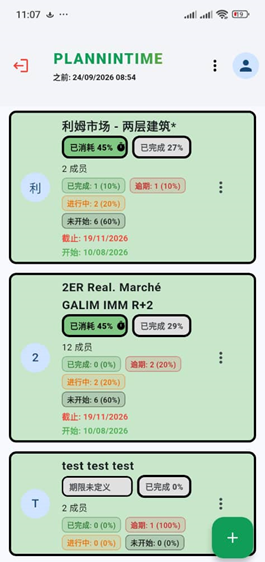
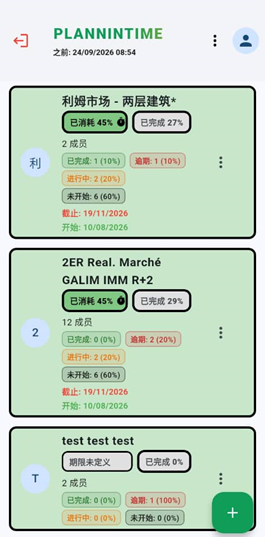
Plannintime v1 - deploy Firebase OK + update 8 langues FR EN ES DE PT ZH HI AR

diff --git a/de/index.html b/de/index.html
@@ -1,34 +1,111 @@
 <!DOCTYPE html>
 <html lang="de">
 <head>
-<meta charset="UTF-8"><meta name="viewport" content="width=device-width,initial-scale=1">
-<title>PlannInTime - Die Planungssoftware, die Fristen einhält</title>
-<meta name="description" content="Weisen Sie Aufgaben zu, verfolgen Sie den Fortschritt und erhalten Sie automatische Benachrichtigungen vor jeder Frist.">
+<meta charset="UTF-8">
+<meta name="viewport" content="width=device-width,initial-scale=1">
+<title>PlannInTime - Der Zeitplan, der Termine einhält</title>
+<meta name="description" content="Weisen Sie Aufgaben zu, verfolgen Sie den Fortschritt und bewerten Sie diese mit automatischen Benachrichtigungen vor jedem Fälligkeitsdatum.">
 <link rel="icon" type="image/png" href="/favicon.png"/>
 <link rel="canonical" href="https://plannintime.com/de/"/>
-<link rel="alternate" hreflang="en" href="https://plannintime.com/"/><link rel="alternate" hreflang="fr" href="https://plannintime.com/fr/"/><link rel="alternate" hreflang="es" href="https://plannintime.com/es/"/><link rel="alternate" hreflang="de" href="https://plannintime.com/de/"/><link rel="alternate" hreflang="pt" href="https://plannintime.com/pt/"/><link rel="alternate" hreflang="zh" href="https://plannintime.com/zh/"/><link rel="alternate" hreflang="hi" href="https://plannintime.com/hi/"/><link rel="alternate" hreflang="ar" href="https://plannintime.com/ar/"/><link rel="alternate" hreflang="x-default" href="https://plannintime.com/"/>
+<link rel="alternate" hreflang="en" href="https://plannintime.com/"/>
+<link rel="alternate" hreflang="fr" href="https://plannintime.com/fr/"/>
+<link rel="alternate" hreflang="es" href="https://plannintime.com/es/"/>
+<link rel="alternate" hreflang="de" href="https://plannintime.com/de/"/>
+<link rel="alternate" hreflang="pt" href="https://plannintime.com/pt/"/>
+<link rel="alternate" hreflang="zh" href="https://plannintime.com/zh/"/>
+<link rel="alternate" hreflang="hi" href="https://plannintime.com/hi/"/>
+<link rel="alternate" hreflang="ar" href="https://plannintime.com/ar/"/>
+<link rel="alternate" hreflang="x-default" href="https://plannintime.com/"/>
+<meta property="og:image" content="https://plannintime.com/images/hero-de.png"/>
 <style>
-*{box-sizing:border-box}body{font-family:Inter,system-ui;margin:0;color:#0f172a;background:#fff;line-height:1.6}
+*{box-sizing:border-box}body{font-family:Inter,system-ui,-apple-system,sans-serif;margin:0;color:#0f172a;background:#fff;line-height:1.6}
 header{display:flex;justify-content:space-between;align-items:center;padding:16px 5%;border-bottom:1px solid #e2e8f0;background:rgba(255,255,255,.9);backdrop-filter:blur(10px);position:sticky;top:0;z-index:10}
 nav a{margin:0 12px;text-decoration:none;color:#334155;font-weight:500}
-.btn{background:linear-gradient(135deg,#2563eb,#7c3aed);color:#fff!important;padding:12px 22px;border-radius:10px;text-decoration:none;font-weight:600;display:inline-block}
+nav a:hover{color:#2563eb}
+.btn{background:linear-gradient(135deg,#2563eb,#7c3aed);color:#fff!important;padding:12px 22px;border-radius:10px;text-decoration:none;font-weight:600;display:inline-block;box-shadow:0 4px 15px rgba(37,99,235,.3);transition:.2s}
+.btn:hover{transform:translateY(-2px);box-shadow:0 8px 25px rgba(37,99,235,.4)}
 .hero{padding:80px 5%;display:grid;grid-template-columns:1.1fr .9fr;gap:40px;align-items:center;background:linear-gradient(180deg,#eff6ff 0%,#f5f3ff 50%,#fff 100%)}
 .hero h1{font-size:52px;line-height:1.1;margin:0 0 20px;background:linear-gradient(135deg,#1e293b,#4c1d95);-webkit-background-clip:text;-webkit-text-fill-color:transparent}
-@keyframes shine{to{background-position:200% center}}
+.hero p.sub{font-size:19px;color:#475569;margin:0 0 30px}
+.badge{display:inline-block;background:#dbeafe;color:#1d4ed8;padding:6px 14px;border-radius:20px;font-size:13px;font-weight:600;margin-bottom:16px}
+.trust{margin-top:16px;color:#64748b;font-size:14px}
+.hero img{width:100%;border-radius:20px;border:1px solid #e2e8f0;box-shadow:0 20px 50px rgba(0,0,0,.1)}
 .features{padding:60px 5%;display:grid;grid-template-columns:repeat(3,1fr);gap:24px;max-width:1200px;margin:0 auto}
-.card{border:1px solid #e2e8f0;padding:28px;border-radius:18px;background:#fff}
-.img-section{padding:80px 5%;background:linear-gradient(135deg,#0f172a,#1e1b4b);color:#fff}
-.img-grid{display:grid;grid-template-columns:1fr 1fr;gap:28px;max-width:1100px;margin:40px auto 0}
-.img-card{background:#fff;color:#0f172a;border-radius:20px;padding:14px}
+.card{border:1px solid #e2e8f0;padding:28px;border-radius:18px;background:#fff;transition:.2s}
+.card:hover{transform:translateY(-4px);box-shadow:0 12px 30px rgba(0,0,0,.08);border-color:#c7d2fe}
+.card h3{margin:0 0 10px;font-size:20px}
+.card p{margin:0;color:#64748b}
+.card.icon{font-size:32px;margin-bottom:12px;display:block}
+.img-section{padding:80px 5%;background:linear-gradient(135deg,#0f172a 0%,#1e1b4b 100%);color:#fff}
+.img-section h2{text-align:center;font-size:38px;margin:0}
+.img-section p.lead{text-align:center;color:#cbd5e1;max-width:620px;margin:14px auto 0}
+.img-grid{display:grid;grid-template-columns:1fr 1fr;gap:28px;margin-top:40px;max-width:1100px;margin-left:auto;margin-right:auto}
+.img-card{background:#fff;color:#0f172a;border-radius:20px;padding:14px;box-shadow:0 20px 40px rgba(0,0,0,.2)}
+.img-card img{width:100%;border-radius:14px;border:1px solid #e2e8f0}
+.img-card h4{margin:14px 10px 6px;font-size:18px}
+.img-card p{margin:0 10px 14px;color:#64748b;font-size:14px}
 .cta{padding:80px 5%;text-align:center;background:linear-gradient(135deg,#2563eb,#7c3aed);color:#fff}
-@media(max-width:800px){.hero{grid-template-columns:1fr}.features{grid-template-columns:1fr}.img-grid{grid-template-columns:1fr}}
+.cta h2{font-size:36px;margin:0 0 16px}
+.cta.btn{background:#fff;color:#2563eb!important;box-shadow:none;margin-top:20px}
+footer{padding:30px 5%;text-align:center;color:#94a3b8;font-size:14px;border-top:1px solid #f1f5f9}
+@media(max-width:800px){.hero{grid-template-columns:1fr;padding:40px 5%}.hero h1{font-size:36px}.features{grid-template-columns:1fr}.img-grid{grid-template-columns:1fr}}
+@keyframes shine{to{background-position:200% center}}
 </style>
 </head>
 <body>
-<header><div style="display:flex;align-items:center;gap:10px"><img src="/favicon.png" style="width:36px;height:36px;border-radius:8px"/><div style="font-weight:900;font-size:22px;letter-spacing:1.5px;background:linear-gradient(90deg,#0F9D58,#FFC107,#0F9D58);background-size:200% auto;-webkit-background-clip:text;background-clip:text;-webkit-text-fill-color:transparent;animation:shine 3s linear infinite">PLANNINTIME</div></div><nav><a href="/de/planning.html">Planung</a><a href="/de/pricing.html">Preise</a><a href="/de/contact.html">Kontakt</a><a class="btn" href="https://app.plannintime.com" target="_blank" rel="noopener">Login</a></nav></header>
-<section class="hero"><div><span style="background:#dbeafe;color:#1d4ed8;padding:6px 14px;border-radius:20px;font-size:13px;font-weight:600">✨ Neu: A3 Querformat PDF Export</span><h1>Die Planungssoftware, die Fristen einhält.</h1><p style="color:#475569;font-size:19px">Weisen Sie Aufgaben in 2 Klicks zu, verfolgen Sie den Fortschritt in Echtzeit und erhalten Sie automatische Benachrichtigungen vor jeder Frist.</p><a class="btn" href="https://app.plannintime.com" target="_blank" rel="noopener">Kostenlos starten →</a><p style="color:#64748b;font-size:14px">✓ Keine Kreditkarte · ✓ In 2 Minuten · ✓ Support auf Deutsch</p></div><div><img src="/images/hero-de.png" style="width:100%;border-radius:20px" alt="PlannInTime"></div></section>
-<section class="features"><div class="card"><h3>📋 Einfache Zuweisung</h3><p>Aufgabe in 2 Klicks zuweisen, Frist und Verantwortlichen festlegen.</p></div><div class="card"><h3>🔔 Auto-Benachrichtigungen</h3><p>Erinnerungen bei T-3, T-1, S-2. Nach Projekt konfigurierbar.</p></div><div class="card"><h3>📊 Klare Bewertung</h3><p>Wer ist voraus, im Verzug? Performance Dashboard.</p></div></section>
-<section class="img-section"><h2 style="text-align:center">Visualisieren, exportieren, teilen</h2><div class="img-grid"><div class="img-card"><img src="/images/evolution-taches-de.png"><h4>Echtzeit Aufgabenentwicklung</h4></div><div class="img-card"><img src="/images/planning-pdf-de.png"><h4>Pro PDF Export (A4 / A3 Quer)</h4></div></div></section>
-<section class="cta"><h2>Bereit, nie wieder eine Frist zu verpassen?</h2><a class="btn" style="background:#fff;color:#2563eb!important" href="https://app.plannintime.com" target="_blank" rel="noopener">Kostenlos testen →</a></section>
+<header>
+<div style="display:flex;align-items:center;gap:10px">
+  <img src="/favicon.png" alt="PlannInTime" style="width:36px;height:36px;border-radius:8px"/>
+  <div style="font-weight:900;font-size:22px;letter-spacing:1.5px;background:linear-gradient(90deg,#0F9D58,#FFC107,#0F9D58);background-size:200% auto;-webkit-background-clip:text;background-clip:text;-webkit-text-fill-color:transparent;animation:shine 3s linear infinite">PLANNINTIME</div>
+</div>
+<nav>
+<a href="/de/planning.html">Planung</a>
+<a href="/de/tarifs.html">Preise</a>
+<a href="/de/contact.html">Kontakt</a>
+<a class="btn" href="https://app.plannintime.com" target="_blank" rel="noopener" style="padding:8px 16px">Anmelden</a>
+</nav>
+</header>
+<section class="hero">
+<div>
+<span class="badge">✨ Neu: PDF-Export A3 Querformat</span>
+<h1>Der Zeitplan, der Termine einhält.</h1>
+<p class="sub">Weisen Sie Ihre Aufgaben mit 2 Klicks zu, verfolgen Sie den Fortschritt in Echtzeit und erhalten Sie automatische Benachrichtigungen vor jeder Fälligkeit.</p>
+<a class="btn" href="https://app.plannintime.com" target="_blank" rel="noopener">Kostenlos starten →</a>
+<p class="trust">✓ Ohne Kreditkarte · ✓ In 2 Minuten · ✓ Support auf Deutsch</p>
+</div>
+<div><img src="/images/hero-de.png" alt="PlannInTime Planung"></div>
+</section>
+
+<!-- BLOC GUIDE - CADRE VERT AU MILIEU -->
+<section style="padding:30px 5%;background:#f0fdf4">
+<div style="max-width:900px;margin:0 auto;background:linear-gradient(135deg,#0F9D58,#0a7a44);border-radius:20px;padding:28px 28px;display:flex;flex-wrap:wrap;align-items:center;justify-content:space-between;gap:16px;box-shadow:0 12px 30px rgba(15,157,88,.35);border:1px solid rgba(255,255,255,.2)">
+<div style="color:#fff;flex:1;min-width:240px">
+<h3 style="margin:0 0 6px;font-size:22px;color:#fff">📘 Kostenloser Benutzerleitfaden</h3>
+<p style="margin:0;color:#d1fae5;font-size:15px">Laden Sie den vollständigen Leitfaden als PDF herunter (1 Min)</p>
+</div>
+<a href="//guides/guide-de.pdf" download style="background:#fff;color:#0F9D58;padding:13px 24px;border-radius:10px;text-decoration:none;font-weight:800;display:inline-block;white-space:nowrap;box-shadow:0 4px 12px rgba(0,0,0,.15)">PDF-Leitfaden herunterladen →</a>
+</div>
+</section>
+<!-- FIN BLOC GUIDE -->
+
+<section class="features">
+<div class="card"><span class="icon">📋</span><h3>Einfache Zuweisung</h3><p>Weisen Sie eine Aufgabe mit 2 Klicks zu, legen Sie Fälligkeitsdatum und Verantwortlichen fest.</p></div>
+<div class="card"><span class="icon">🔔</span><h3>Automatische Benachrichtigungen</h3><p>Erinnerungen bei T-3, T-1, H-2. Konfigurierbar pro Projekt und Rolle.</p></div>
+<div class="card"><span class="icon">📊</span><h3>Klare Bewertung</h3><p>Wer ist im Voraus, wer im Verzug? Leistungs-Dashboard.</p></div>
+</section>
+<section class="img-section">
+<h2>Visualisieren, exportieren, teilen</h2>
+<p class="lead">Von der Echtzeit-Verfolgung bis zum professionellen Export für Ihre Baubesprechungen.</p>
+<div class="img-grid">
+<div class="img-card"><img src="/images/evolution-taches-de.png" alt="Aufgabenentwicklung"><h4>Aufgabenentwicklung in Echtzeit</h4><p>Verfolgung nach Fälligkeit oder Fortschritt der Unteraufgaben. Jedes Mitglied sieht seinen Fortschritt.</p></div>
+<div class="img-card"><img src="/images/planning-pdf-de.png" alt="PDF Planung Export"><h4>Pro PDF-Export (A4 / A3 Querformat)</h4><p>Erstellung des Wochen- oder Gesamtplans mit Bezeichnungen und Verantwortlichen.</p></div>
+</div>
+</section>
+<section class="cta">
+<h2>Bereit, nie wieder eine Frist zu verpassen?</h2>
+<p>Schließen Sie sich den Teams an, die pünktlich liefern mit PlannInTime.</p>
+<a class="btn" href="https://app.plannintime.com" target="_blank" rel="noopener">Kostenlos testen →</a>
+</section>
+<footer>© 2026 PlannInTime - plannintime.com</footer>
 </body>
 </html>

diff --git a/hi/index.html b/hi/index.html
@@ -12,6 +12,17 @@
 <body>
 <header><div style="display:flex;align-items:center;gap:10px"><img src="/favicon.png" style="width:36px;height:36px;border-radius:8px"/><div style="font-weight:900;font-size:22px;letter-spacing:1.5px;background:linear-gradient(90deg,#0F9D58,#FFC107,#0F9D58);background-size:200% auto;-webkit-background-clip:text;background-clip:text;-webkit-text-fill-color:transparent;animation:shine 3s linear infinite">PLANNINTIME</div></div><nav><a href="/hi/planning.html">प्लानिंग</a><a href="/hi/pricing.html">मूल्य</a><a href="/hi/contact.html">संपर्क</a><a class="btn" href="https://app.plannintime.com" target="_blank" rel="noopener">लॉगिन</a></nav></header>
 <section class="hero"><div><span style="background:#dbeafe;color:#1d4ed8;padding:6px 14px;border-radius:20px;font-size:13px;font-weight:600">✨ नया: A3 लैंडस्केप PDF एक्सपोर्ट</span><h1>वह प्लानिंग सॉफ्टवेयर जो समय पर काम करवाता है।</h1><p style="color:#475569;font-size:19px">2 क्लिक में टास्क असाइन करें, रियल-टाइम प्रगति देखें और हर डेडलाइन से पहले ऑटोमैटिक रिमाइंडर पाएं।</p><a class="btn" href="https://app.plannintime.com" target="_blank" rel="noopener">फ्री में शुरू करें →</a><p style="color:#64748b;font-size:14px">✓ कोई क्रेडिट कार्ड नहीं · ✓ 2 मिनट में · ✓ हिंदी सपोर्ट</p></div><div><img src="/images/hero-hi.png" style="width:100%;border-radius:20px" alt="PlannInTime"></div></section>
+
+<section style="padding:30px 5%;background:#f0fdf4">
+<div style="max-width:900px;margin:0 auto;background:linear-gradient(135deg,#0F9D58,#0a7a44);border-radius:20px;padding:28px 28px;display:flex;flex-wrap:wrap;align-items:center;justify-content:space-between;gap:16px;box-shadow:0 12px 30px rgba(15,157,88,.35);border:1px solid rgba(255,255,255,.2)">
+<div style="color:#fff;flex:1;min-width:240px">
+<h3 style="margin:0 0 6px;font-size:22px;color:#fff">📘 निःशुल्क उपयोगकर्ता गाइड</h3>
+<p style="margin:0;color:#d1fae5;font-size:15px">पूरा गाइड PDF में डाउनलोड करें (1 मिनट)</p>
+</div>
+<a href="/guides/guide-hi.pdf" download style="background:#fff;color:#0F9D58;padding:13px 24px;border-radius:10px;text-decoration:none;font-weight:800;display:inline-block;white-space:nowrap;box-shadow:0 4px 12px rgba(0,0,0,.15)">PDF गाइड डाउनलोड करें →</a>
+</div>
+</section>
+
 <section class="features"><div class="card"><h3>📋 आसान असाइनमेंट</h3><p>2 क्लिक में टास्क असाइन करें, डेडलाइन और जिम्मेदार व्यक्ति सेट करें।</p></div><div class="card"><h3>🔔 ऑटो नोटिफिकेशन</h3><p>D-3, D-1, H-2 पर रिमाइंडर। प्रोजेक्ट और रोल के हिसाब से कॉन्फ़िगर करें।</p></div><div class="card"><h3>📊 स्पष्ट मूल्यांकन</h3><p>कौन आगे है, कौन पीछे? परफॉरमेंस डैशबोर्ड।</p></div></section>
 <section class="img-section"><h2 style="text-align:center;font-size:38px;margin:0">देखें, एक्सपोर्ट करें, शेयर करें</h2><div class="img-grid"><div class="img-card"><img src="/images/evolution-taches-hi.png"><h4>रियल-टाइम टास्क प्रगति</h4></div><div class="img-card"><img src="/images/planning-pdf-hi.png"><h4>प्रो PDF एक्सपोर्ट (A4 / A3 लैंडस्केप)</h4></div></div></section>
 <section class="cta"><h2>क्या आप कभी डेडलाइन मिस नहीं करना चाहते?</h2><a class="btn" style="background:#fff;color:#2563eb!important" href="https://app.plannintime.com" target="_blank" rel="noopener">फ्री ट्रायल →</a></section>

diff --git a/index.html b/index.html
@@ -89,37 +89,15 @@ footer{padding:30px 5%;text-align:center;color:#94a3b8;font-size:14px;border-top
 <div><img src="/images/hero-en.png" alt="PlannInTime Planning software"></div>
 </section>
 
-<!-- BLOC GUIDE - CADRE VERT AU MILIEU -->
 <section style="padding:30px 5%;background:#f0fdf4">
 <div style="max-width:900px;margin:0 auto;background:linear-gradient(135deg,#0F9D58,#0a7a44);border-radius:20px;padding:28px 28px;display:flex;flex-wrap:wrap;align-items:center;justify-content:space-between;gap:16px;box-shadow:0 12px 30px rgba(15,157,88,.35);border:1px solid rgba(255,255,255,.2)">
 <div style="color:#fff;flex:1;min-width:240px">
 <h3 style="margin:0 0 6px;font-size:22px;color:#fff">📘 Free User Guide</h3>
-<p id="guide-text" style="margin:0;color:#d1fae5;font-size:15px">Download the complete guide in PDF (2 min read)</p>
+<p style="margin:0;color:#d1fae5;font-size:15px">Download the complete guide in PDF (1 min)</p>
 </div>
-<a id="guide-btn" href="/guides/guide-en.pdf" download style="background:#fff;color:#0F9D58;padding:13px 24px;border-radius:10px;text-decoration:none;font-weight:800;display:inline-block;white-space:nowrap;box-shadow:0 4px 12px rgba(0,0,0,.15)">Download PDF guide →</a>
+<a href="/guides/guide-en.pdf" download style="background:#fff;color:#0F9D58;padding:13px 24px;border-radius:10px;text-decoration:none;font-weight:800;display:inline-block;white-space:nowrap;box-shadow:0 4px 12px rgba(0,0,0,.15)">Download PDF guide →</a>
 </div>
 </section>
-<script>
-(function(){
-  const guides = {
-    fr: {file:'/guides/guide-fr.pdf', text:'Téléchargez le guide complet en PDF (2 min)', btn:'Télécharger le guide PDF →'},
-    en: {file:'/guides/guide-en.pdf', text:'Download the complete guide in PDF (2 min)', btn:'Download PDF guide →'},
-    es: {file:'/guides/guide-es.pdf', text:'Descarga la guía completa en PDF (2 min)', btn:'Descargar guía PDF →'},
-    de: {file:'/guides/guide-de.pdf', text:'Laden Sie den vollständigen Leitfaden als PDF herunter (2 Min)', btn:'PDF-Leitfaden herunterladen →'},
-    pt: {file:'/guides/guide-pt.pdf', text:'Baixe o guia completo em PDF (2 min)', btn:'Baixar guia PDF →'},
-    zh: {file:'/guides/guide-zh.pdf', text:'下载完整 PDF 指南（2 分钟）', btn:'下载 PDF 指南 →'},
-    hi: {file:'/guides/guide-hi.pdf', text:'पूरा गाइड PDF में डाउनलोड करें (2 मिनट)', btn:'PDF गाइड डाउनलोड करें →'},
-    ar: {file:'/guides/guide-ar.pdf', text:'حمّل الدليل الكامل PDF (دقيقتان)', btn:'تحميل دليل PDF →'}
-  };
-  const lang = (navigator.language||'en').toLowerCase().split('-')[0];
-  const g = guides[lang] || guides.en;
-  const btn = document.getElementById('guide-btn');
-  const txt = document.getElementById('guide-text');
-  if(btn){ btn.href = g.file; btn.textContent = g.btn; }
-  if(txt){ txt.textContent = g.text; }
-})();
-</script>
-<!-- FIN BLOC GUIDE -->
 
 <section class="features">
 <div class="card"><span class="icon">📋</span><h3>Easy assignment</h3><p>Assign a task in 2 clicks, set the deadline and owner.</p></div>

diff --git a/ar/index.html b/ar/index.html
@@ -67,6 +67,17 @@ footer{padding:30px 5%;text-align:center;color:#94a3b8;font-size:14px;border-top
 </div>
 <div><img src="/images/hero-ar.png" alt="جدولة PlannInTime"></div>
 </section>
+
+<section style="padding:30px 5%;background:#f0fdf4" dir="rtl">
+<div style="max-width:900px;margin:0 auto;background:linear-gradient(135deg,#0F9D58,#0a7a44);border-radius:20px;padding:28px 28px;display:flex;flex-wrap:wrap;align-items:center;justify-content:space-between;gap:16px;box-shadow:0 12px 30px rgba(15,157,88,.35);border:1px solid rgba(255,255,255,.2)">
+<div style="color:#fff;flex:1;min-width:240px">
+<h3 style="margin:0 0 6px;font-size:22px;color:#fff">📘 دليل المستخدم المجاني</h3>
+<p style="margin:0;color:#d1fae5;font-size:15px">حمّل الدليل الكامل PDF (دقيقتان)</p>
+</div>
+<a href="/guides/guide-ar.pdf" download style="background:#fff;color:#0F9D58;padding:13px 24px;border-radius:10px;text-decoration:none;font-weight:800;display:inline-block;white-space:nowrap;box-shadow:0 4px 12px rgba(0,0,0,.15)">← تحميل دليل PDF</a>
+</div>
+</section>
+
 <section class="features">
 <div class="card"><span class="icon">📋</span><h3>تعيين بسيط</h3><p>عيّن مهمة بنقرتين، حدد الموعد النهائي والمسؤول.</p></div>
 <div class="card"><span class="icon">🔔</span><h3>إشعارات تلقائية</h3><p>تذكير في D-3، D-1، H-2. قابلة للتخصيص حسب المشروع والدور.</p></div>

diff --git a/fr/index.html b/fr/index.html
@@ -75,6 +75,19 @@ footer{padding:30px 5%;text-align:center;color:#94a3b8;font-size:14px;border-top
 </div>
 <div><img src="/images/hero-fr.png" alt="Planning Plannintime"></div>
 </section>
+
+<!-- BLOC GUIDE - CADRE VERT AU MILIEU -->
+<section style="padding:30px 5%;background:#f0fdf4">
+<div style="max-width:900px;margin:0 auto;background:linear-gradient(135deg,#0F9D58,#0a7a44);border-radius:20px;padding:28px 28px;display:flex;flex-wrap:wrap;align-items:center;justify-content:space-between;gap:16px;box-shadow:0 12px 30px rgba(15,157,88,.35);border:1px solid rgba(255,255,255,.2)">
+<div style="color:#fff;flex:1;min-width:240px">
+<h3 style="margin:0 0 6px;font-size:22px;color:#fff">📘 Guide d'utilisation gratuit</h3>
+<p style="margin:0;color:#d1fae5;font-size:15px">Téléchargez le guide complet en PDF (1 min)</p>
+</div>
+<a href="/guides/guide-fr.pdf" download style="background:#fff;color:#0F9D58;padding:13px 24px;border-radius:10px;text-decoration:none;font-weight:800;display:inline-block;white-space:nowrap;box-shadow:0 4px 12px rgba(0,0,0,.15)">Télécharger le guide PDF →</a>
+</div>
+</section>
+<!-- FIN BLOC GUIDE -->
+
 <section class="features">
 <div class="card"><span class="icon">📋</span><h3>Assignation simple</h3><p>Assignez une tâche en 2 clics, définissez l'échéance et le responsable.</p></div>
 <div class="card"><span class="icon">🔔</span><h3>Notifications auto</h3><p>Relances à J-3, J-1, H-2. Paramétrable par projet et par rôle.</p></div>

diff --git a/es/index.html b/es/index.html
@@ -73,6 +73,17 @@ footer{padding:30px 5%;text-align:center;color:#94a3b8;font-size:14px;border-top
 </div>
 <div><img src="/images/hero-es.png" alt="PlannInTime software de planificación"></div>
 </section>
+
+<section style="padding:30px 5%;background:#f0fdf4">
+<div style="max-width:900px;margin:0 auto;background:linear-gradient(135deg,#0F9D58,#0a7a44);border-radius:20px;padding:28px 28px;display:flex;flex-wrap:wrap;align-items:center;justify-content:space-between;gap:16px;box-shadow:0 12px 30px rgba(15,157,88,.35);border:1px solid rgba(255,255,255,.2)">
+<div style="color:#fff;flex:1;min-width:240px">
+<h3 style="margin:0 0 6px;font-size:22px;color:#fff">📘 Guía de usuario gratuita</h3>
+<p style="margin:0;color:#d1fae5;font-size:15px">Descarga la guía completa en PDF (1 min)</p>
+</div>
+<a href="/guides/guide-es.pdf" download style="background:#fff;color:#0F9D58;padding:13px 24px;border-radius:10px;text-decoration:none;font-weight:800;display:inline-block;white-space:nowrap;box-shadow:0 4px 12px rgba(0,0,0,.15)">Descargar guía PDF →</a>
+</div>
+</section>
+
 <section class="features">
 <div class="card"><span class="icon">📋</span><h3>Asignación fácil</h3><p>Asigna una tarea en 2 clics, define el plazo y el responsable.</p></div>
 <div class="card"><span class="icon">🔔</span><h3>Notificaciones auto</h3><p>Recordatorios a D-3, D-1, H-2. Configurable por proyecto y rol.</p></div>

diff --git a/pt/index.html b/pt/index.html
@@ -75,6 +75,17 @@ footer{padding:30px 5%;text-align:center;color:#94a3b8;font-size:14px;border-top
 </div>
 <div><img src="/images/hero-pt.png" alt="Planejamento PlannInTime"></div>
 </section>
+
+<section style="padding:30px 5%;background:#f0fdf4">
+<div style="max-width:900px;margin:0 auto;background:linear-gradient(135deg,#0F9D58,#0a7a44);border-radius:20px;padding:28px 28px;display:flex;flex-wrap:wrap;align-items:center;justify-content:space-between;gap:16px;box-shadow:0 12px 30px rgba(15,157,88,.35);border:1px solid rgba(255,255,255,.2)">
+<div style="color:#fff;flex:1;min-width:240px">
+<h3 style="margin:0 0 6px;font-size:22px;color:#fff">📘 Guia gratuito do usuário</h3>
+<p style="margin:0;color:#d1fae5;font-size:15px">Baixe o guia completo em PDF (1 min)</p>
+</div>
+<a href="/guides/guide-pt.pdf" download style="background:#fff;color:#0F9D58;padding:13px 24px;border-radius:10px;text-decoration:none;font-weight:800;display:inline-block;white-space:nowrap;box-shadow:0 4px 12px rgba(0,0,0,.15)">Baixar guia PDF →</a>
+</div>
+</section>
+
 <section class="features">
 <div class="card"><span class="icon">📋</span><h3>Atribuição simples</h3><p>Atribua uma tarefa em 2 cliques, defina o prazo e o responsável.</p></div>
 <div class="card"><span class="icon">🔔</span><h3>Notificações automáticas</h3><p>Lembretes em D-3, D-1, H-2. Configurável por projeto e função.</p></div>

diff --git a/zh/index.html b/zh/index.html
@@ -67,6 +67,17 @@ footer{padding:30px 5%;text-align:center;color:#94a3b8;font-size:14px;border-top
 </div>
 <div><img src="/images/hero-zh.png" alt="PlannInTime 规划"></div>
 </section>
+
+<section style="padding:30px 5%;background:#f0fdf4">
+<div style="max-width:900px;margin:0 auto;background:linear-gradient(135deg,#0F9D58,#0a7a44);border-radius:20px;padding:28px 28px;display:flex;flex-wrap:wrap;align-items:center;justify-content:space-between;gap:16px;box-shadow:0 12px 30px rgba(15,157,88,.35);border:1px solid rgba(255,255,255,.2)">
+<div style="color:#fff;flex:1;min-width:240px">
+<h3 style="margin:0 0 6px;font-size:22px;color:#fff">📘 免费用户指南</h3>
+<p style="margin:0;color:#d1fae5;font-size:15px">下载完整 PDF 指南（1 分钟）</p>
+</div>
+<a href="/guides/guide-zh.pdf" download style="background:#fff;color:#0F9D58;padding:13px 24px;border-radius:10px;text-decoration:none;font-weight:800;display:inline-block;white-space:nowrap;box-shadow:0 4px 12px rgba(0,0,0,.15)">下载 PDF 指南 →</a>
+</div>
+</section>
+
 <section class="features">
 <div class="card"><span class="icon">📋</span><h3>简单分配</h3><p>2次点击分配任务，设定截止日期和负责人。</p></div>
 <div class="card"><span class="icon">🔔</span><h3>自动通知</h3><p>D-3、D-1、H-2 提醒。可按项目和角色配置。</p></div>
